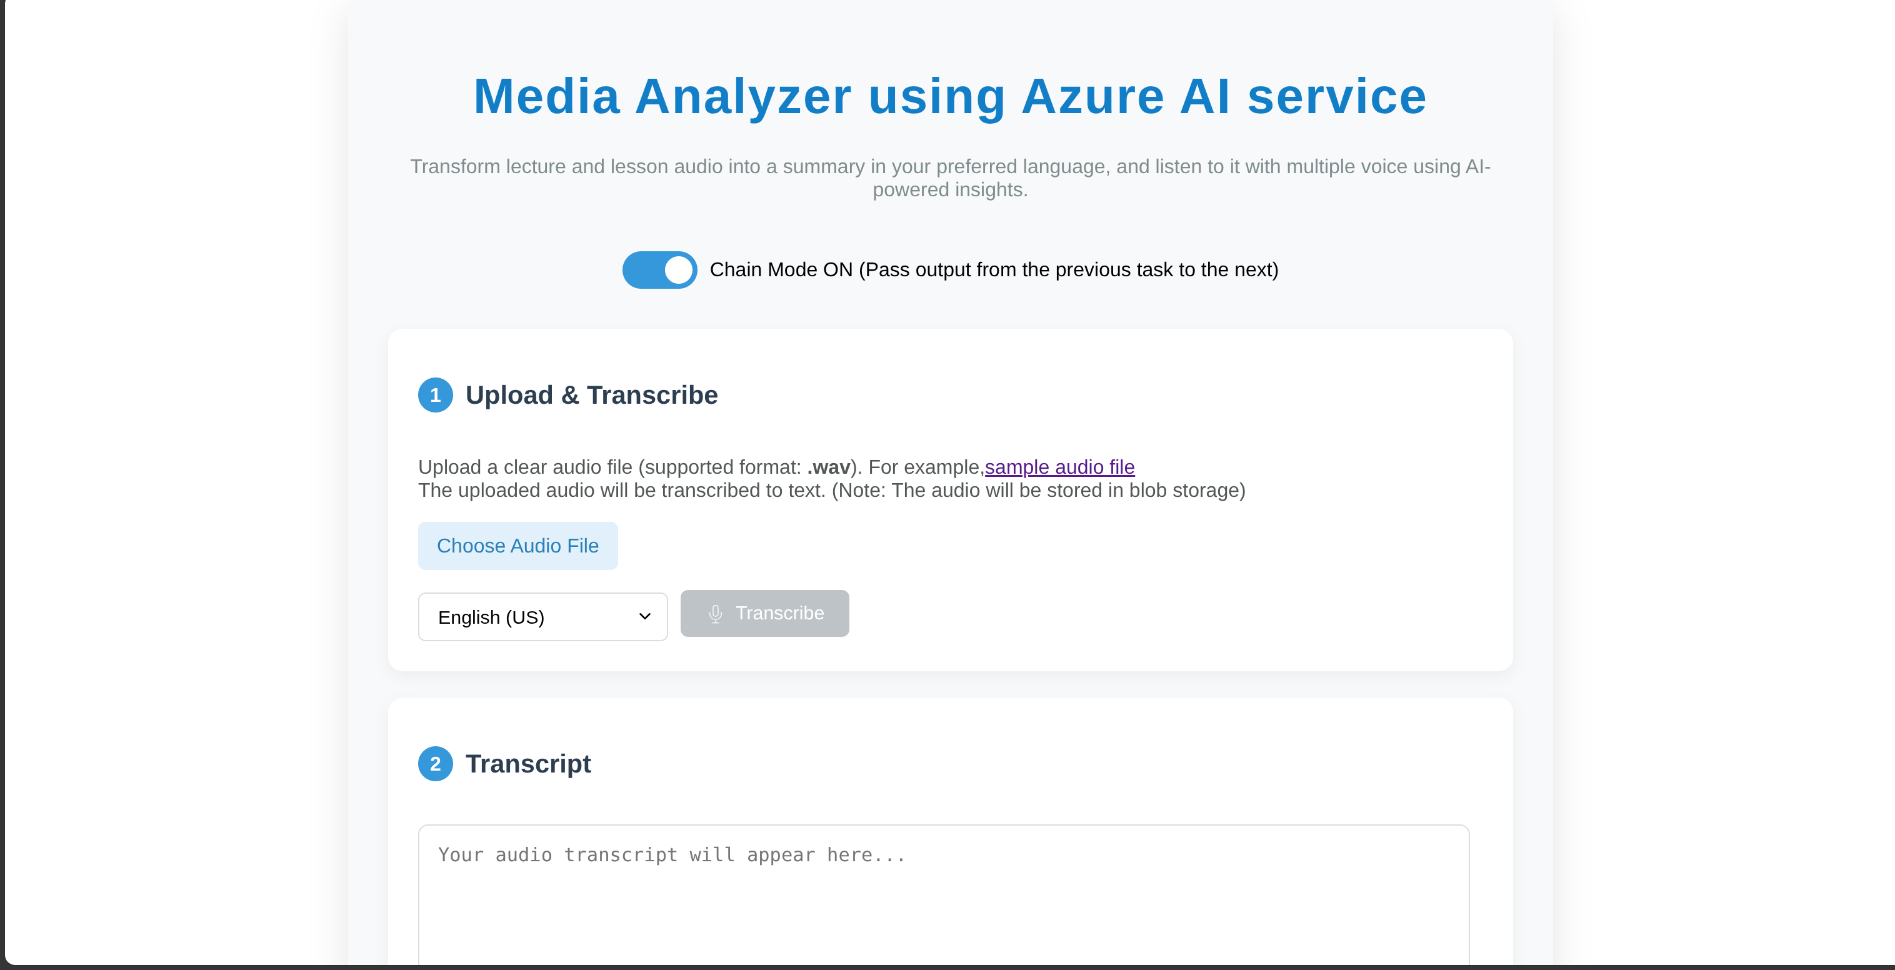
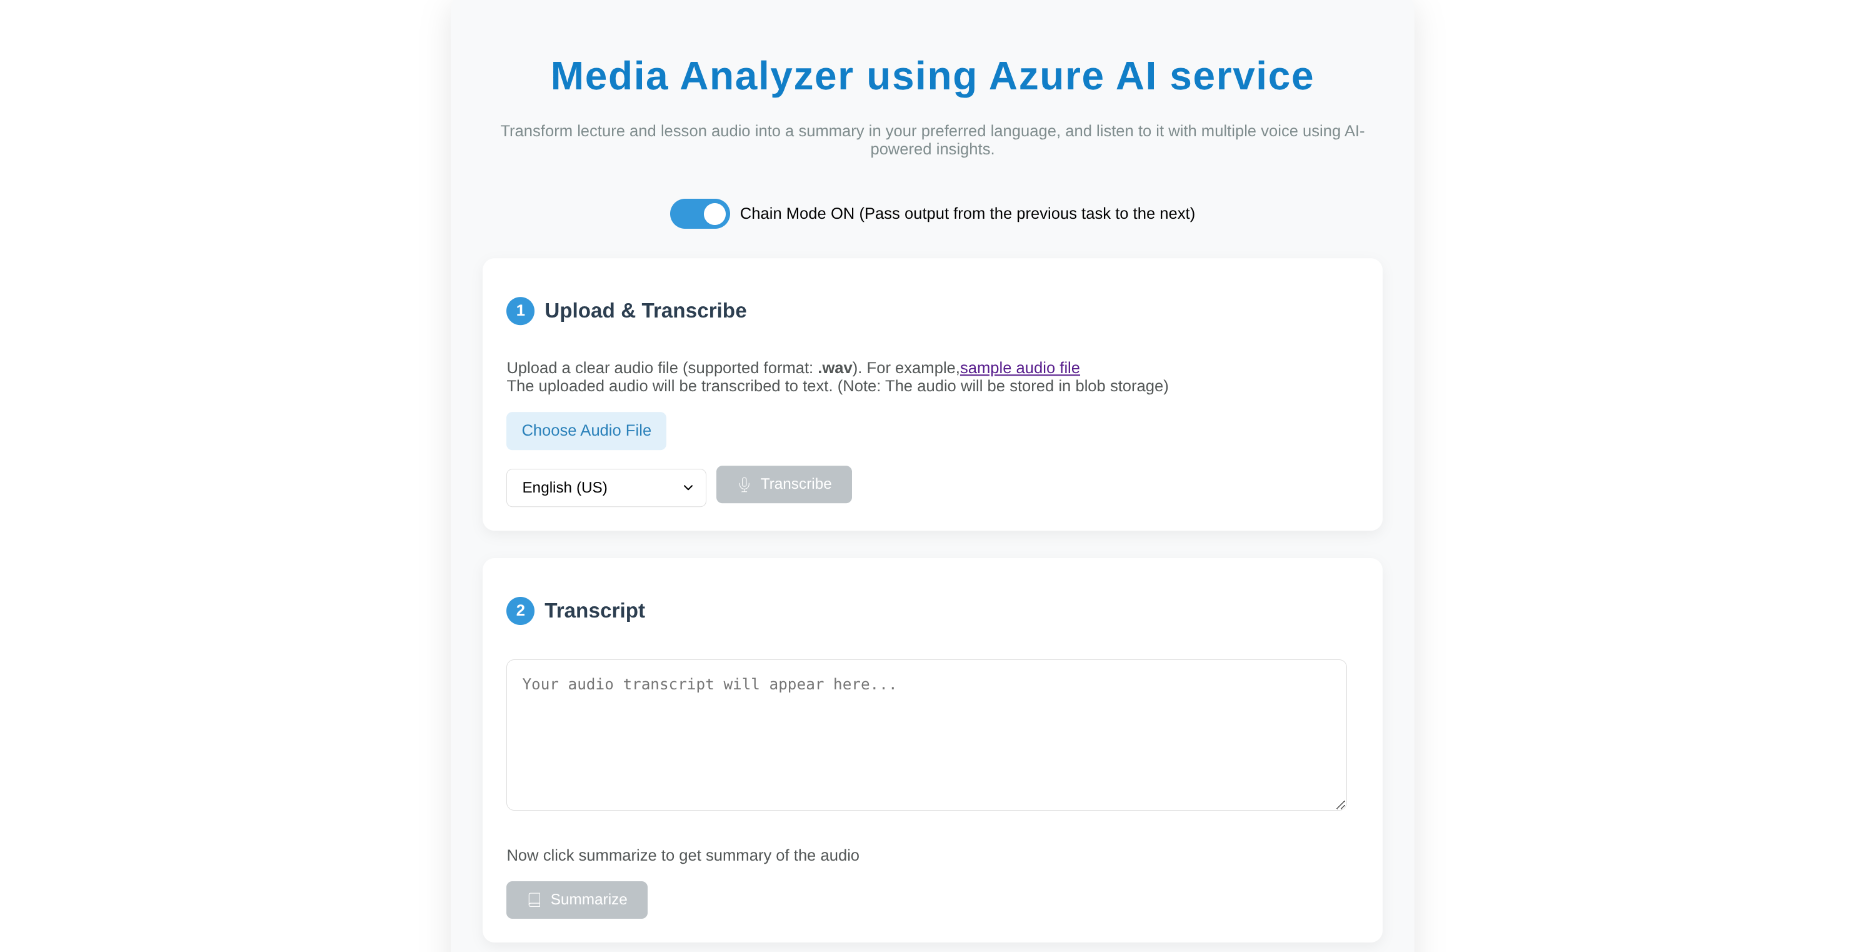
added azure project

diff --git a/src/components/ProjectsData.js b/src/components/ProjectsData.js
@@ -85,7 +85,10 @@ const ProjectsData = [
     description:
       "Transform lecture and lesson audio into a summary in your preferred language, and listen to it with multiple voice using AI-powered insights.",
     icons: [
-      { src: "https://icons8.com/icon/VLKafOkk3sBX/azure" },
+      { src: "https://img.icons8.com/?size=100&id=VLKafOkk3sBX&format=png&color=000000" },
+      { src: "https://img.icons8.com/?size=100&id=wPohyHO_qO1a&format=png&color=000000" }, // React
+      { src: "https://img.icons8.com/?size=100&id=hsPbhkOH4FMe&format=png&color=000000" }, // Node.js
+      { src: "https://img.icons8.com/?size=100&id=2ZOaTclOqD4q&format=png&color=000000" } // Express
     ],
     github: "https://github.com/saliniyan/media-analyzer-azure",
     demo: "https://media.saliniyan.tech",
